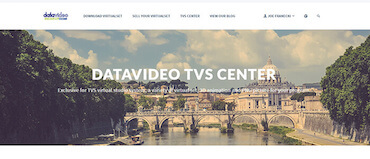
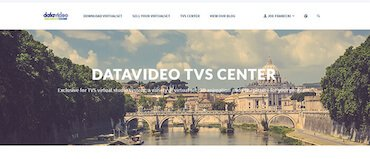
Compress images

diff --git a/documentation/3.x/mvc/uri-route-building.html b/documentation/3.x/mvc/uri-route-building.html
@@ -540,7 +540,7 @@ OR
 <li><code>setQueries($queries)</code> --> Set queries.</li>
 <li><code>getRoute()</code> --> Get route name.</li>
 <li><code>setRoute($route)</code> --> set a new route name.</li>
-<li><code>mute([bool])</code> --> Don't throw exception if route not found. (Useful in dev period)</li>
+<li><code>mute([bool])</code> --> Don't throw exception if route not found. (Useful in dev period) </li>
 </ul>
 
                         <hr />

diff --git a/documentation/3.x/more/validation.html b/documentation/3.x/more/validation.html
@@ -330,7 +330,7 @@ $validator-&gt;validate('sakura'); // bool(false)
 <li>PhoneValidator</li>
 <li>RegexValidator</li>
 <li>UrlValidator</li>
-<li>CallbackValidator</li>
+<li>CallbackValidator </li>
 <li>CompareValidator</li>
 <li>PhpTypeValidator</li>
 </ul>

diff --git a/documentation/index.html b/documentation/index.html
@@ -1,0 +1,3 @@
+<script>
+    location.replace('3.x/start/installation.html');
+</script>

diff --git a/documentation/2.1/index.html b/documentation/2.1/index.html
@@ -1,0 +1,3 @@
+<script>
+    location.replace('start/getting-started.html');
+</script>

diff --git a/rad/js/csrf.html b/rad/js/csrf.html
@@ -1,0 +1,3 @@
+<script>
+    location.href = './ajax.html#add-csrf-token';
+</script>

diff --git a/documentation/3.x/index.html b/documentation/3.x/index.html
@@ -1,0 +1,3 @@
+<script>
+    location.replace('start/installation.html');
+</script>

diff --git a/rad/index.html b/rad/index.html
@@ -1,0 +1,3 @@
+<script>
+    location.replace('start/introduction.html');
+</script>
